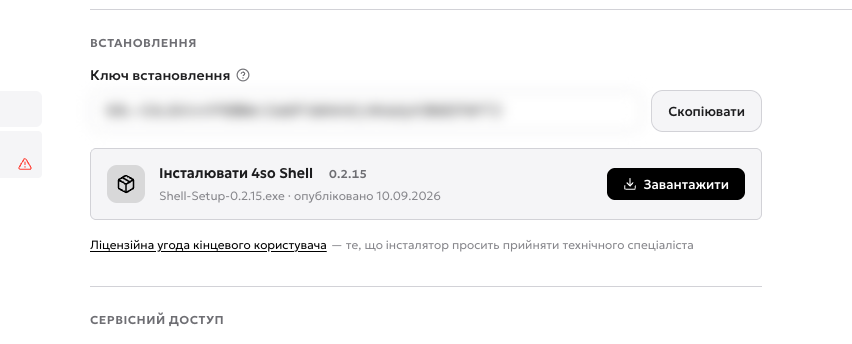
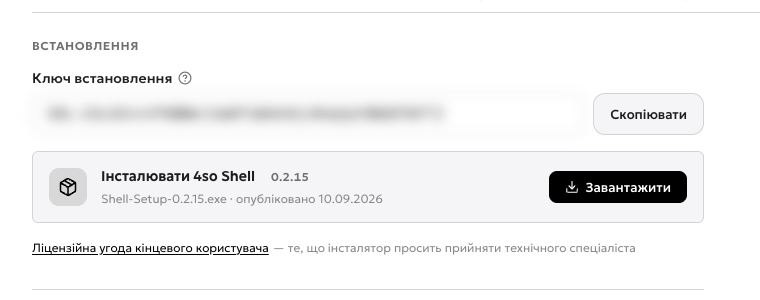
розділ 8: поповнення балансу клієнта
Новий короткий розділ на прохання власника: відкрита зміна як обовʼязкова умова,
два входи до каси (поле «Клієнт» або кнопка «Поповнити» з картки клієнта),
проведення суми (готові +50…+1000 або «Своя сума», спосіб оплати, «Оплатити»),
перевірка балансу й вкладка «Історія балансу».

Окремо сказано, що гравець сам поповнити не може, а QR поповнення в бойовому
Shell відповідає «зверніться до адміністратора» — щоб не малювали собі баланс.

Кадри зняті на проді app.eightgate.ai. Індекс і футери всіх розділів оновлені
під 8 розділів.

diff --git a/instruction-08-balance.html b/instruction-08-balance.html
@@ -4,13 +4,13 @@
 <meta charset="utf-8">
 <meta name="viewport" content="width=device-width, initial-scale=1">
 <meta name="color-scheme" content="light dark">
-<meta name="description" content="Зали з різними кольорами, картки ПК, PlayStation і VR.">
+<meta name="description" content="Каса, відкрита зміна, сума на баланс і історія поповнень.">
 <style>
   html, body { margin: 0; }
   img { max-width: 100%; }
   [hidden] { display: none !important; }
 </style>
-<title>Зони і пристрої CyberOS</title>
+<title>Поповнення балансу клієнта</title>
 <link rel="preconnect" href="https://fonts.googleapis.com">
 <link rel="preconnect" href="https://fonts.gstatic.com" crossorigin>
 <link rel="stylesheet" href="https://fonts.googleapis.com/css2?family=Manrope:wght@600;800&family=IBM+Plex+Sans:wght@400;500;600&family=IBM+Plex+Mono:wght@400;500&display=swap">
@@ -298,23 +298,23 @@
 <div class="wrap">
   <a class="home-link" href="index.html"><span>&#8592;</span>Усі розділи інструкції</a>
   <header class="masthead">
-    <p class="kicker">CyberOS · інструкція, розділ 2</p>
-    <h1>Зал у системі: зони, пристрої та Shell</h1>
-    <p class="lede">Другий розділ описує зал: групуємо місця в зони й заводимо машини. Наведіть курсор на пункт списку — на знімку підсвітиться те саме поле.</p>
+    <p class="kicker">CyberOS · інструкція, розділ 8</p>
+    <h1>Поповнення балансу клієнта</h1>
+    <p class="lede">Гроші на баланс кладе адміністратор через касу — сам гравець цього поки не може. Обовʼязкова умова: відкрита зміна, інакше фінанси нікуди не запишуться. Наведіть курсор на пункт списку — на знімку підсвітиться те саме поле.</p>
     <dl class="facts">
-      <div><dt>Часу</dt><dd>10 хвилин</dd></div>
-      <div><dt>Потрібно</dt><dd>Список машин і план залу</dd></div>
-      <div><dt>Результат</dt><dd>Зал описаний, машини в системі</dd></div>
-      <div><dt>Далі</dt><dd>Тарифи й покриття доби</dd></div>
+      <div><dt>Часу</dt><dd>1 хвилина</dd></div>
+      <div><dt>Потрібно</dt><dd>Відкрита зміна</dd></div>
+      <div><dt>Результат</dt><dd>Баланс у клієнта</dd></div>
+      <div><dt>Далі</dt><dd>Гість сідає за ПК</dd></div>
     </dl>
   </header>
 
   <nav class="rail" aria-label="Кроки розділу">
     <a class="rail-home" href="index.html"><i>&#9666;</i>Розділи</a>
-    <a href="#step-1" data-rail=1><i>1</i>Обладнання</a>
-    <a href="#step-2" data-rail=2><i>2</i>Зони</a>
-    <a href="#step-3" data-rail=3><i>3</i>Пристрої</a>
-    <a href="#video"><i>▶</i>Відео проходу</a>
+    <a href="#step-1" data-rail=1><i>1</i>Зміна</a>
+    <a href="#step-2" data-rail=2><i>2</i>Клієнт</a>
+    <a href="#step-3" data-rail=3><i>3</i>Сума</a>
+    <a href="#step-4" data-rail=4><i>4</i>Перевірка</a>
   </nav>
 
   <main>
@@ -322,129 +322,126 @@
       <div class="step-head">
         <span class="step-num">01</span>
         <div>
-          <h2>Відкрийте «Обладнання»</h2>
+          <h2>Спершу відкрийте зміну</h2>
           <p>
-            Тут живуть зони й пристрої — те, що система продає годинами. У новому клубі
-            обидва списки порожні, тому дашборд поки нічого й не показує.
+            Це обовʼязкова умова: усі гроші каса записує <b>у зміну</b>, тому без
+            відкритої зміни поповнити баланс не вийде. Порядок такий: відчинили клуб →
+            відкрили зміну → і вже з того акаунта, який її відкрив, проводите поповнення.
           </p>
         </div>
       </div>
-      <div class="step-body">
-        <ol class="hints" data-shot="21-equipment-empty"><li data-key="21-equipment-empty:tab_devices"><span class="hint-num">1</span><span class="hint-text"><b>Пристрої</b> — список машин зі статусами й поточними сесіями.</span></li>
-<li data-key="21-equipment-empty:tab_zones"><span class="hint-num">2</span><span class="hint-text"><b>Зони</b> — почніть звідси: пристрій без зони не створиться.</span></li></ol>
-        <figure>
-          <div class="shot" id="shot-21-equipment-empty">
-            <img src="shots/crop-21-equipment-empty.png" alt="«Обладнання» має дві вкладки: «Пристрої» і «Зони».">
-            <button class="spot" data-key="21-equipment-empty:tab_devices" style="left:3.183%;top:30.278%;width:12.732%;height:10.556%" aria-label="tab_devices"><span class="spot-num tl">1</span></button>
-<button class="spot" data-key="21-equipment-empty:tab_zones" style="left:16.446%;top:30.278%;width:8.886%;height:10.556%" aria-label="tab_zones"><span class="spot-num tr">2</span></button>
-          </div>
-          <div class="shot-bar"><figcaption>«Обладнання» має дві вкладки: «Пристрої» і «Зони».</figcaption><button class="toggle" type="button" data-toggle="shot-21-equipment-empty">Прибрати підсвітку</button></div>
-        </figure>
-      </div>
-      <div class="note"><span class="note-tag">Порядок</span><span>Спершу <b>зони</b>, потім <b>пристрої</b>: у формі пристрою зона — обовʼязкове поле, і поки зон немає, там висить «Поки немає зон».</span></div>
-      <label class="check"><input type="checkbox" data-step="1"> Бачу «Обладнання» і вкладку «Зони»</label>
+      <div class="note note--warn"><span class="note-tag">Зміна — це не формальність</span><span>Поповнення, продажі й повернення падають у звіт саме тієї зміни, у якій вони зроблені. Якщо зміна закрита, каса покаже екран «зачекайте, поки зміну відкриють» — це не помилка.</span></div>
+      <label class="check"><input type="checkbox" data-step="1"> Зміна відкрита</label>
     </section>
 
     <section class="step" id="step-2">
       <div class="step-head">
         <span class="step-num">02</span>
         <div>
-          <h2>Створіть зони</h2>
+          <h2>Знайдіть клієнта</h2>
           <p>
-            Зона — це група місць з однаковою ціною й однаковим призначенням. Найчастіше
-            беруть три: «Стандарт» для більшості машин, «VIP» для потужніших, «PlayStation»
-            для консолей. Тарифи потім задаються саме на зону.
+            Два шляхи, обидва ведуть в одне місце. Перший — <b>Каса</b>, і там у полі
+            «Клієнт» почати вводити імʼя, нікнейм, телефон або пошту. Другий, зручніший —
+            <b>Клієнти</b> → клік по клієнту → кнопка <b>«Поповнити»</b>: каса відкриється
+            з уже підставленим клієнтом.
           </p>
         </div>
       </div>
       <div class="step-body">
-        <ol class="hints" data-shot="23-zone-form"><li data-key="23-zone-form:name"><span class="hint-num">1</span><span class="hint-text"><b>Назва зони</b> — так її бачитимуть адміністратор і гість: «Стандарт», «VIP», «PlayStation».</span></li>
-<li data-key="23-zone-form:priority"><span class="hint-num">2</span><span class="hint-text"><b>Пріоритет</b> — куди пересаджувати гравця, якщо його місце звільняють. Чим більше число, тим «дорожча» зона: VIP вище за Стандарт.</span></li>
-<li data-key="23-zone-form:order"><span class="hint-num">3</span><span class="hint-text"><b>Порядок сортування</b> — місце зони в таблиці. Менше число — вище в списку.</span></li>
-<li data-key="23-zone-form:color"><span class="hint-num">4</span><span class="hint-text"><b>Колір</b> — мітка зони на карті клубу й у таблицях. Беріть контрастні, щоб зал читався з першого погляду.</span></li>
-<li data-key="23-zone-form:submit"><span class="hint-num">5</span><span class="hint-text"><b>Додати</b> — зона зʼявляється в списку одразу.</span></li></ol>
+        <ol class="hints" data-shot="81-client-balance"><li data-key="81-client-balance:main"><span class="hint-num">1</span><span class="hint-text"><b>Основний баланс</b> — гроші, з яких списується час. Саме його ви поповнюєте.</span></li>
+<li data-key="81-client-balance:topup"><span class="hint-num">2</span><span class="hint-text"><b>«Поповнити»</b> — перекидає в касу з уже підставленим клієнтом, шукати його вдруге не треба.</span></li>
+<li data-key="81-client-balance:bonus"><span class="hint-num">3</span><span class="hint-text"><b>«Нарахувати»</b> — це бонусний баланс, окрема історія: бонусами можна платити частково, але час вони не купують.</span></li></ol>
         <figure>
-          <div class="shot" id="shot-23-zone-form">
-            <img src="shots/crop-23-zone-form.png" alt="Форма зони: назва, пріоритет, порядок сортування, колір.">
-            <button class="spot" data-key="23-zone-form:name" style="left:13.846%;top:17.308%;width:72.308%;height:8.077%" aria-label="name"><span class="spot-num ">1</span></button>
-<button class="spot" data-key="23-zone-form:priority" style="left:13.846%;top:32.885%;width:34.923%;height:8.077%" aria-label="priority"><span class="spot-num ">2</span></button>
-<button class="spot" data-key="23-zone-form:order" style="left:51.231%;top:32.885%;width:34.923%;height:8.077%" aria-label="order"><span class="spot-num ">3</span></button>
-<button class="spot" data-key="23-zone-form:color" style="left:13.846%;top:57.885%;width:22.154%;height:8.462%" aria-label="color"><span class="spot-num ">4</span></button>
-<button class="spot" data-key="23-zone-form:submit" style="left:73.692%;top:76.538%;width:12.462%;height:6.154%" aria-label="submit"><span class="spot-num ">5</span></button>
+          <div class="shot" id="shot-81-client-balance">
+            <img src="shots/crop-81-client-balance.png" alt="Картка клієнта, вкладка «Баланси»: основний баланс, «Поповнити» і бонусне «Нарахувати».">
+            <button class="spot" data-key="81-client-balance:main" style="left:57.763%;top:3.846%;width:14.079%;height:6.154%" aria-label="main"><span class="spot-num ">1</span></button>
+<button class="spot" data-key="81-client-balance:topup" style="left:57.763%;top:3.846%;width:14.079%;height:6.154%" aria-label="topup"><span class="spot-num ">2</span></button>
+<button class="spot" data-key="81-client-balance:bonus" style="left:80.132%;top:59.615%;width:14.605%;height:6.154%" aria-label="bonus"><span class="spot-num ">3</span></button>
           </div>
-          <div class="shot-bar"><figcaption>Форма зони: назва, пріоритет, порядок сортування, колір.</figcaption><button class="toggle" type="button" data-toggle="shot-23-zone-form">Прибрати підсвітку</button></div>
+          <div class="shot-bar"><figcaption>Картка клієнта, вкладка «Баланси»: основний баланс, «Поповнити» і бонусне «Нарахувати».</figcaption><button class="toggle" type="button" data-toggle="shot-81-client-balance">Прибрати підсвітку</button></div>
         </figure>
       </div>
-      <figure>
-          <div class="shot bare" id="shot-25-zones-ready">
-            <img src="shots/25-zones-ready.png" alt="Три зони готові. Колонки «Пристрої» і «Зайнято / вільно» поки нульові — машини додамо далі.">
-            
-          </div>
-          <div class="shot-bar"><figcaption>Три зони готові. Колонки «Пристрої» і «Зайнято / вільно» поки нульові — машини додамо далі.</figcaption></div>
-        </figure>
-      <div class="note"><span class="note-tag">Про пріоритет</span><span>Він потрібен рідко, але в потрібний момент рятує: коли гостя пересаджують, система підказує зону з вищим пріоритетом. Поставте VIP вище за Стандарт — і пересадка «на краще місце» працюватиме сама.</span></div>
-      <label class="check"><input type="checkbox" data-step="2"> Зони створені</label>
+      <label class="check"><input type="checkbox" data-step="2"> Клієнт відкритий у касі</label>
     </section>
 
     <section class="step" id="step-3">
       <div class="step-head">
         <span class="step-num">03</span>
         <div>
-          <h2>Додайте пристрої</h2>
+          <h2>Проведіть суму</h2>
           <p>
-            Пристрій — конкретна машина в залі. Тримайтеся одного формату назв: так
-            адміністратору легше шукати, а вам — читати звіти.
+            У касі виберіть категорію <b>«Поповнити»</b>, потім позицію — готову суму
+            або «Своя сума», додайте її в кошик кнопкою <b>«+»</b>, виберіть спосіб
+            оплати й натисніть <b>«Оплатити»</b>. Це весь шлях, він займає менше хвилини.
           </p>
         </div>
       </div>
       <div class="step-body">
-        <ol class="hints" data-shot="26-device-form"><li data-key="26-device-form:name"><span class="hint-num">1</span><span class="hint-text"><b>Назва</b> — коротка й однакова за форматом: PC-01, PC-02, VIP-01. Її називає адміністратор, коли садить гостя.</span></li>
-<li data-key="26-device-form:type"><span class="hint-num">2</span><span class="hint-text"><b>Тип</b> — ПК, PS, Xbox або VR. Впливає на іконку й фільтри; ціну задає зона, а не тип.</span></li>
-<li data-key="26-device-form:zone"><span class="hint-num">3</span><span class="hint-text"><b>Зона</b> — обовʼязкова, тому зони й створюємо першими. Тут же видно, чому важливий порядок сортування.</span></li>
-<li data-key="26-device-form:note"><span class="hint-num">4</span><span class="hint-text"><b>Примітка</b> — необовʼязкова: модель відеокарти, «крісло біля вікна», що завгодно для себе.</span></li>
-<li data-key="26-device-form:submit"><span class="hint-num">5</span><span class="hint-text"><b>Додати</b> — пристрій зʼявиться у списку своєї зони.</span></li></ol>
+        <ol class="hints" data-shot="82-pos-topup"><li data-key="82-pos-topup:shift"><span class="hint-num">1</span><span class="hint-text"><b>«Зміна відкрита»</b> — без цього напису в шапці каса нічого не проведе.</span></li>
+<li data-key="82-pos-topup:client"><span class="hint-num">2</span><span class="hint-text"><b>Клієнт</b> — підставився сам, якщо ви прийшли з картки. Інакше почніть вводити імʼя, нікнейм, телефон або пошту.</span></li>
+<li data-key="82-pos-topup:category"><span class="hint-num">3</span><span class="hint-text"><b>Категорія «Поповнити»</b> — не товар і не послуга, а саме гроші на баланс.</span></li>
+<li data-key="82-pos-topup:position"><span class="hint-num">4</span><span class="hint-text"><b>Позиція</b> — готові суми +50, +100, +200, +500, +1000 або «Своя сума» для будь-якої іншої.</span></li></ol>
         <figure>
-          <div class="shot" id="shot-26-device-form">
-            <img src="shots/crop-26-device-form.png" alt="Форма пристрою: назва, тип, зона, примітка.">
-            <button class="spot" data-key="26-device-form:name" style="left:13.846%;top:18.219%;width:72.308%;height:8.502%" aria-label="name"><span class="spot-num ">1</span></button>
-<button class="spot" data-key="26-device-form:type" style="left:13.846%;top:34.615%;width:34.923%;height:8.502%" aria-label="type"><span class="spot-num ">2</span></button>
-<button class="spot" data-key="26-device-form:zone" style="left:51.231%;top:34.615%;width:34.923%;height:8.502%" aria-label="zone"><span class="spot-num ">3</span></button>
-<button class="spot" data-key="26-device-form:note" style="left:13.846%;top:56.073%;width:72.308%;height:8.502%" aria-label="note"><span class="spot-num ">4</span></button>
-<button class="spot" data-key="26-device-form:submit" style="left:73.692%;top:75.304%;width:12.462%;height:6.478%" aria-label="submit"><span class="spot-num ">5</span></button>
+          <div class="shot" id="shot-82-pos-topup">
+            <img src="shots/crop-82-pos-topup.png" alt="Каса: клієнт підставлений, категорія «Поповнити», у списку позицій — готові суми й «Своя сума».">
+            <button class="spot" data-key="82-pos-topup:shift" style="left:75.338%;top:1.607%;width:11.655%;height:5.357%" aria-label="shift"><span class="spot-num ">1</span></button>
+<button class="spot" data-key="82-pos-topup:client" style="left:3.463%;top:48.571%;width:93.074%;height:7.500%" aria-label="client"><span class="spot-num ">2</span></button>
+<button class="spot" data-key="82-pos-topup:category" style="left:3.463%;top:62.321%;width:10.980%;height:7.500%" aria-label="category"><span class="spot-num ">3</span></button>
+<button class="spot" data-key="82-pos-topup:position" style="left:15.118%;top:62.321%;width:35.473%;height:7.500%" aria-label="position"><span class="spot-num ">4</span></button>
           </div>
-          <div class="shot-bar"><figcaption>Форма пристрою: назва, тип, зона, примітка.</figcaption><button class="toggle" type="button" data-toggle="shot-26-device-form">Прибрати підсвітку</button></div>
+          <div class="shot-bar"><figcaption>Каса: клієнт підставлений, категорія «Поповнити», у списку позицій — готові суми й «Своя сума».</figcaption><button class="toggle" type="button" data-toggle="shot-82-pos-topup">Прибрати підсвітку</button></div>
         </figure>
       </div>
-      <figure>
-          <div class="shot bare" id="shot-28-devices-ready">
-            <img src="shots/28-devices-ready.png" alt="Чотири пристрої, згруповані за зонами. Статус у всіх — «Не підключено до Shell»: програму на самих машинах ще не встановлено.">
-            
+      <div class="step-body" style="margin-top:28px">
+        <ol class="hints" data-shot="83-pos-cart"><li data-key="83-pos-cart:total"><span class="hint-num">1</span><span class="hint-text"><b>Разом</b> — перевірте суму перед оплатою: саме стільки зайде на баланс клієнта.</span></li>
+<li data-key="83-pos-cart:method"><span class="hint-num">2</span><span class="hint-text"><b>Спосіб оплати</b> — готівка або картка. Від цього залежить, куди сума ляже у звіті зміни.</span></li>
+<li data-key="83-pos-cart:pay"><span class="hint-num">3</span><span class="hint-text"><b>«Оплатити»</b> — після цього гроші на балансі, і клієнт може сідати за ПК.</span></li></ol>
+        <figure>
+          <div class="shot" id="shot-83-pos-cart">
+            <img src="shots/crop-83-pos-cart.png" alt="Кошик перед оплатою: сума, спосіб оплати й «Оплатити».">
+            <button class="spot" data-key="83-pos-cart:total" style="left:85.938%;top:36.625%;width:3.716%;height:7.500%" aria-label="total"><span class="spot-num ">1</span></button>
+<button class="spot" data-key="83-pos-cart:method" style="left:29.814%;top:46.500%;width:18.581%;height:10.500%" aria-label="method"><span class="spot-num ">2</span></button>
+<button class="spot" data-key="83-pos-cart:pay" style="left:3.463%;top:59.000%;width:93.074%;height:10.000%" aria-label="pay"><span class="spot-num ">3</span></button>
           </div>
-          <div class="shot-bar"><figcaption>Чотири пристрої, згруповані за зонами. Статус у всіх — «Не підключено до Shell»: програму на самих машинах ще не встановлено.</figcaption></div>
+          <div class="shot-bar"><figcaption>Кошик перед оплатою: сума, спосіб оплати й «Оплатити».</figcaption><button class="toggle" type="button" data-toggle="shot-83-pos-cart">Прибрати підсвітку</button></div>
         </figure>
-      <div class="note note--ok"><span class="note-tag">Коротший шлях</span><span>Пристрої можна <b>не заводити руками</b>: коли на клубному ПК встановлюють Shell, машина зʼявляється в «Обладнання» сама. Зручно, якщо ви налаштовуєте зал по одному комп’ютеру. Зони все одно потрібні заздалегідь.</span></div>
-      <label class="check"><input type="checkbox" data-step="3"> Пристрої додані й розкладені по зонах</label>
+      </div>
+      <div class="note"><span class="note-tag">Скільки це годин</span><span>Гроші на балансі перетворюються на час автоматично, за погодинним тарифом зони, де сидить гість. Якщо година в зоні коштує 200 ₴, то 400 ₴ на балансі — це 2 години. Окремої «продажі годин» у системі немає.</span></div>
+      <label class="check"><input type="checkbox" data-step="3"> Сума проведена</label>
     </section>
 
-    <section class="video-block" id="video">
-      <h3>Відео: зони і пристрої за хвилину</h3>
-      <p>
-        Запис у демо-клубі: порожнє «Обладнання» → три зони → чотири пристрої.
-      </p>
-      <video controls preload="metadata" playsinline poster="shots/25-zones-ready.png">
-        <source src="videos/uc02-zones.mp4" type="video/mp4">
-        Ваш браузер не показує це відео.
-      </video>
+    <section class="step" id="step-4">
+      <div class="step-head">
+        <span class="step-num">04</span>
+        <div>
+          <h2>Перевірте баланс і історію</h2>
+          <p>
+            Повернітесь у <b>Клієнти</b> — баланс у рядку вже новий. А вся картина по
+            грошах клієнта живе в його картці, на вкладці <b>«Історія балансу»</b>: там
+            видно і ваші поповнення, і автоматичні списання за сесії.
+          </p>
+        </div>
+      </div>
+      <figure>
+          <div class="shot bare" id="shot-85-balance-history">
+            <img src="shots/crop-85-balance-history.png" alt="«Історія балансу»: поповнення через касу («+100 ₴, Каса, Готівка») і списання за гру («−12 ₴, 12 хв гри, PC-02»).">
+            
+          </div>
+          <div class="shot-bar"><figcaption>«Історія балансу»: поповнення через касу («+100 ₴, Каса, Готівка») і списання за гру («−12 ₴, 12 хв гри, PC-02»).</figcaption></div>
+        </figure>
+      <div class="note"><span class="note-tag">Далі гість сідає за компʼютер</span><span>Вхід на машині — через Telegram (сканує QR з екрана) або нік і пароль. Баланс уже на місці, і тарифікація починає списувати гроші за погодинним тарифом зони того ПК.</span></div>
+      <div class="note note--warn"><span class="note-tag">Іншого способу поповнити поки немає</span><span>Гравець не може покласти собі гроші сам: тільки адміністратор через касу. У Shell на екрані є QR для поповнення, але в бойовій версії він відповідає «поповнення тимчасово не працює, зверніться до адміністратора» — щоб ніхто не малював собі баланс. Самостійні оплати зʼявляться разом із платіжною системою.</span></div>
+      <label class="check"><input type="checkbox" data-step="4"> Баланс на місці, історія видна</label>
     </section>
 
     <section class="next">
-      <h2>Наступний розділ</h2>
-      <p>Зал описаний — час навчити систему брати за нього гроші:</p>
+      <h2>Це кінець інструкції</h2>
+      <p>Клуб описаний, ціни виставлені, ігри увімкнені, Shell стоїть, клієнти заходять і платять. Що варто тримати під рукою:</p>
       <ol>
-        <li><b>Погодинні тарифи</b> — на кожну зону, окремо на день і на ніч, окремо на вихідні.</li>
-        <li><b>Покриття доби</b> — якщо клуб працює 24/7, у непокриті години сесія не почнеться.</li>
-        <li><b>Абонементи</b> — пакети годин зі своїм терміном дії.</li>
-        <li><b>Бар і комбо</b> — товари, набори «години + напій», продажі через касу.</li>
+        <li><b>Зміна</b> — відкривається на початку дня, звіт друкується в кінці.</li>
+        <li><b>Каса</b> — поповнення, товари, повернення. Усе пише в зміну.</li>
+        <li><b>Клієнти</b> — баланс, історія, повідомлення на екран.</li>
+        <li><b>Обладнання</b> — стан машин і команди: заблокувати, перезавантажити, написати гостю.</li>
       </ol>
     </section>
 
@@ -452,7 +449,7 @@
 
   <nav class="chapters" aria-label="Розділи інструкції">
     <a href="index.html"><i>◂</i>Усі розділи</a>
-    <a href="instruction-01-club-setup.html" class="current"><i>01</i>Заведення клубу</a>
+    <a href="instruction-01-club-setup.html"><i>01</i>Заведення клубу</a>
     <a href="instruction-02-zones-devices.html"><i>02</i>Зони і пристрої</a>
     <a href="instruction-03-tariffs.html"><i>03</i>Тарифи</a>
     <a href="instruction-04-games.html"><i>04</i>Ігри</a>
@@ -462,8 +459,8 @@
   </nav>
 
   <footer>
-    <span>CyberOS · інструкція власника, розділ 2 з 8</span>
-    <span>Знімки зроблені в демо-клубі 9 вересня 2026</span>
+    <span>CyberOS · інструкція власника, розділ 8 з 8</span>
+    <span>Знімки зроблені на проді 11 вересня 2026</span>
   </footer>
 </div>
 
@@ -497,7 +494,7 @@
   });
 
   // чекліст кроків — пам’ять у браузері читача (може бути недоступна)
-  const KEY = 'cyberos-guide-02';
+  const KEY = 'cyberos-guide-08';
   let done = {};
   try { done = JSON.parse(localStorage.getItem(KEY) || '{}'); } catch (e) { done = {}; }
   const paint = () => {

diff --git a/instruction-06-install.html b/instruction-06-install.html
@@ -493,7 +493,7 @@
           <div class="shot" id="shot-42-shell-service">
             <img src="shots/crop-42-shell-service.png" alt="Де цей пароль живе у панелі: <b>Налаштування → Shell</b>, блок «Сервісний доступ».">
             <button class="spot" data-key="42-shell-service:password" style="left:4.211%;top:25.833%;width:75.000%;height:11.667%" aria-label="password"><span class="spot-num ">1</span></button>
-<button class="spot" data-key="42-shell-service:lock" style="left:4.211%;top:76.111%;width:43.158%;height:11.667%" aria-label="lock"><span class="spot-num ">2</span></button>
+<button class="spot" data-key="42-shell-service:lock" style="left:49.474%;top:76.111%;width:43.158%;height:11.667%" aria-label="lock"><span class="spot-num ">2</span></button>
           </div>
           <div class="shot-bar"><figcaption>Де цей пароль живе у панелі: <b>Налаштування → Shell</b>, блок «Сервісний доступ».</figcaption><button class="toggle" type="button" data-toggle="shot-42-shell-service">Прибрати підсвітку</button></div>
         </figure>
@@ -594,7 +594,7 @@
   </nav>
 
   <footer>
-    <span>CyberOS · інструкція власника, розділ 6 з 7</span>
+    <span>CyberOS · інструкція власника, розділ 6 з 8</span>
     <span>Знімки зроблені на живій Windows-машині 9 вересня 2026</span>
   </footer>
 </div>

diff --git a/index.html b/index.html
@@ -349,6 +349,10 @@ img { max-width: 100%; }
         <span class="ch-num">07</span>
         <span class="ch-body"><b>Клієнти</b><span>QR клубу, ручна картка й вхід клієнта в Shell.</span></span>
       </a>
+      <a class="ch-card" href="instruction-08-balance.html">
+        <span class="ch-num">08</span>
+        <span class="ch-body"><b>Поповнення балансу</b><span>Каса, відкрита зміна, сума на баланс і історія поповнень.</span></span>
+      </a>
     </div>
   </main>
 

diff --git a/instruction-07-clients.html b/instruction-07-clients.html
@@ -648,7 +648,7 @@
   </nav>
 
   <footer>
-    <span>CyberOS · інструкція власника, розділ 7 з 7</span>
+    <span>CyberOS · інструкція власника, розділ 7 з 8</span>
     <span>Знімки зроблені в демо-клубі й на живому клубному ПК 9 вересня 2026</span>
   </footer>
 </div>

diff --git a/instruction-03-tariffs.html b/instruction-03-tariffs.html
@@ -470,7 +470,7 @@
   </nav>
 
   <footer>
-    <span>CyberOS · інструкція власника, розділ 3 з 7</span>
+    <span>CyberOS · інструкція власника, розділ 3 з 8</span>
     <span>Знімки зроблені в демо-клубі 9 вересня 2026</span>
   </footer>
 </div>

diff --git a/instruction-04-games.html b/instruction-04-games.html
@@ -509,7 +509,7 @@
   </nav>
 
   <footer>
-    <span>CyberOS · інструкція власника, розділ 4 з 7</span>
+    <span>CyberOS · інструкція власника, розділ 4 з 8</span>
     <span>Знімки зроблені в демо-клубі 9 вересня 2026</span>
   </footer>
 </div>

diff --git a/instruction-05-shell.html b/instruction-05-shell.html
@@ -521,7 +521,7 @@
   </nav>
 
   <footer>
-    <span>CyberOS · інструкція власника, розділ 5 з 7</span>
+    <span>CyberOS · інструкція власника, розділ 5 з 8</span>
     <span>Знімки зроблені в демо-клубі 9 вересня 2026</span>
   </footer>
 </div>
